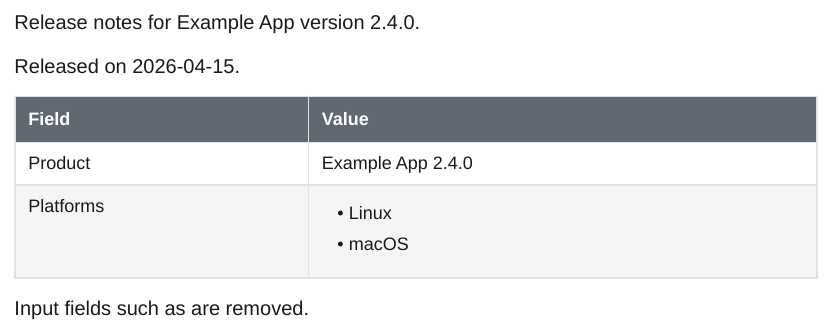
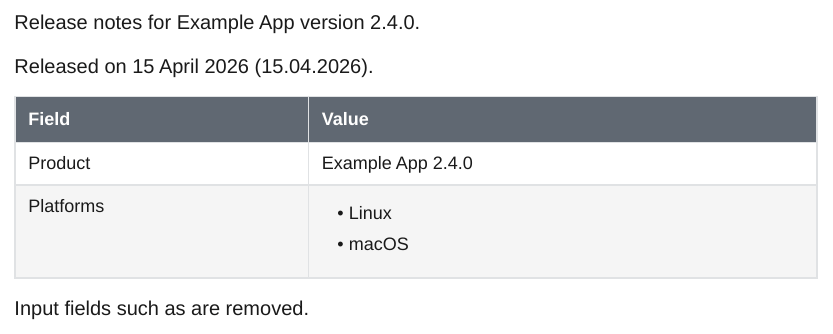
Document heading links, path links and Meta Bind date formats
Remove the notes about #60 and #61 from the wiki links and Meta Bind
pages, and show heading links, path links and dates in the examples.

Changed region(s): [[0.1561, 0.1796, 0.437, 0.2395]]

diff --git a/docs/obsidian/wiki-links.md b/docs/obsidian/wiki-links.md
@@ -29,11 +29,12 @@ A wiki link to a page of the export becomes a link to that page's section in the
 | `[[Page]]` | Link to the section of `Page`. |
 | `[[Page\|alias]]` | Same link, showing the alias. |
 | `[[#Heading]]`, `[[#Heading\|alias]]` | Link to the heading on the same page. When several pages share a heading name, the one on the linking page wins. |
-| `[[Page#Heading]]` | Link to the section of `Page`. The heading part is not used yet ([#60](https://github.com/Spenhouet/obsidian-pdf-exporter/issues/60)). |
-| `[[Folder/Page]]` | A link with a path is not resolved yet and shows as plain text ([#60](https://github.com/Spenhouet/obsidian-pdf-exporter/issues/60)). Use the page name. |
-| `[[Missing page]]` | A page outside the export shows as plain text. |
+| `[[Page#Heading]]`, `[[Page#Heading\|alias]]` | Link to that heading on `Page`. Without an alias the label is `Page > Heading`. When `Page` has no such heading, the link goes to the page. `[[Page#A#B]]` uses the last heading, `B`. |
+| `[[Page#^id]]` | Link to the section of `Page`. |
+| `[[Folder/Page]]`, `[[Page.md]]` | The last path part is the page name and a `.md` suffix is ignored. When several pages have that name, the one whose path ends with `Folder/Page` wins. |
+| `[[Missing page]]` | A page outside the export shows as italic text. |
 | `[[https://example.com\|text]]` | An external link. |
 
-When two pages have the same name, the link goes to the one closest to the linking page. Links inside code are left as written.
+When two pages have the same name, the link goes to the one closest to the linking page. Each of them has its own anchor in the PDF (`page`, `page-1`, ...). Links inside code are left as written.
 
 Standard Markdown links (`[text](https://...)`) are covered in [Links and images](../markdown/links-images.md).

diff --git a/docs/plugins/meta-bind.md b/docs/plugins/meta-bind.md
@@ -25,9 +25,7 @@ The `meta_bind` plugin fills [Meta Bind](https://github.com/mProjectsCode/obsidi
 </div>
 
 - `{key}` is the value of a frontmatter field. `+` joins values and quoted text.
+- `[date(D MMMM YYYY)]` and `[datetime(DD.MM.YYYY HH:mm)]` format an ISO date or date and time with moment.js tokens: `D`, `DD`, `M`, `MM`, `MMM`, `MMMM`, `YY`, `YYYY`, `H`, `HH`, `mm` and `ss`. Month names are English. Other text in the format is kept. A value that is not a date is shown as written.
 - A multi-line value shown inside text, such as in a table cell, stays in its cell: list items become an HTML list, other lines are joined with line breaks. A field alone on its line keeps the lines as they are.
 - Fields inside code blocks are left as written.
 - In an embedded note, the fields use the embedded note's frontmatter.
-
-!!! warning "Date formats"
-    `VIEW[{date}][date(...)]` is meant to format a date with moment.js tokens. The format is currently lowercased, so the result is wrong ([#61](https://github.com/Spenhouet/obsidian-pdf-exporter/issues/61)). Use `[text]` to show the value as written.

diff --git a/examples/meta-bind/meta-bind.md b/examples/meta-bind/meta-bind.md
@@ -8,7 +8,7 @@ platforms: |
 ---
 Release notes for `VIEW[{product}][text]` version `VIEW[{version}][text]`.
 
-Released on `VIEW[{released}][text]`.
+Released on `VIEW[{released}][date(D MMMM YYYY)]` (`VIEW[{released}][date(DD.MM.YYYY)]`).
 
 | Field     | Value                                     |
 | --------- | ----------------------------------------- |

diff --git a/examples/wiki-links/wiki-links.md b/examples/wiki-links/wiki-links.md
@@ -2,5 +2,7 @@
 
 - Plain: [[Setup guide]]
 - With alias: [[Setup guide|the setup guide]]
+- To a heading on another page: [[Setup guide#Install]]
+- With a folder path: [[wiki-links/Setup guide|setup guide by path]]
 - To a heading on this page: [[#Links]]
 - To a page outside the export: [[Missing page]]
